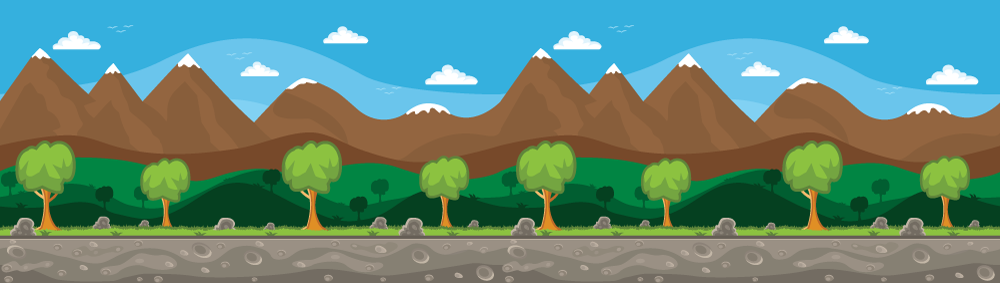
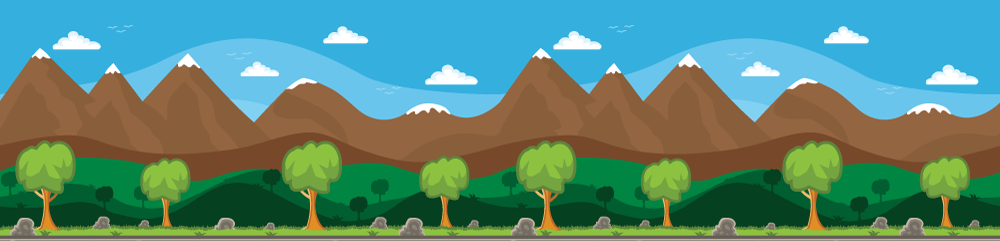
Cropping images

diff --git a/javascript/game.js b/javascript/game.js
@@ -86,7 +86,7 @@ Game.prototype.start = function () {
   this.scoreInterval = window.setInterval(this.incrementScore.bind(this), 50);
   this.collisionInterval = window.setInterval(this.checkCollision.bind(this), 10);
   this.doubleScoreInterval = window.setInterval(this.doubleScore.bind(this), this.settings.doubleScoreInterval);
-  this.slideBackgroundInterval = window.setInterval(this.slideBackground.bind(this, 0), 10);
+  this.slideBackgroundInterval = window.setInterval(this.slideBackground.bind(this), 10);
 
   this.init();
 };

diff --git a/javascript/bundle.js b/javascript/bundle.js
@@ -191,7 +191,7 @@
 	  this.scoreInterval = window.setInterval(this.incrementScore.bind(this), 50);
 	  this.collisionInterval = window.setInterval(this.checkCollision.bind(this), 10);
 	  this.doubleScoreInterval = window.setInterval(this.doubleScore.bind(this), this.settings.doubleScoreInterval);
-	  this.slideBackgroundInterval = window.setInterval(this.slideBackground.bind(this, 0), 10);
+	  this.slideBackgroundInterval = window.setInterval(this.slideBackground.bind(this), 10);
 	
 	  this.init();
 	};

diff --git a/css/application.css b/css/application.css
@@ -34,9 +34,10 @@ h2 {
   height: 100px;
   bottom: 22px;
   left: 200px;
-  /*Need height here?*/
-  transition: bottom 0.5s, height 0s;
-  -webkit-transition: bottom 0.5s, height 0s;
+  /*transition: bottom 0.5s, height 0s;
+  -webkit-transition: bottom 0.5s, height 0s;*/
+  transition: bottom 0.5s;
+  -webkit-transition: bottom 0.5s;
 }
 
 .obstacle {
